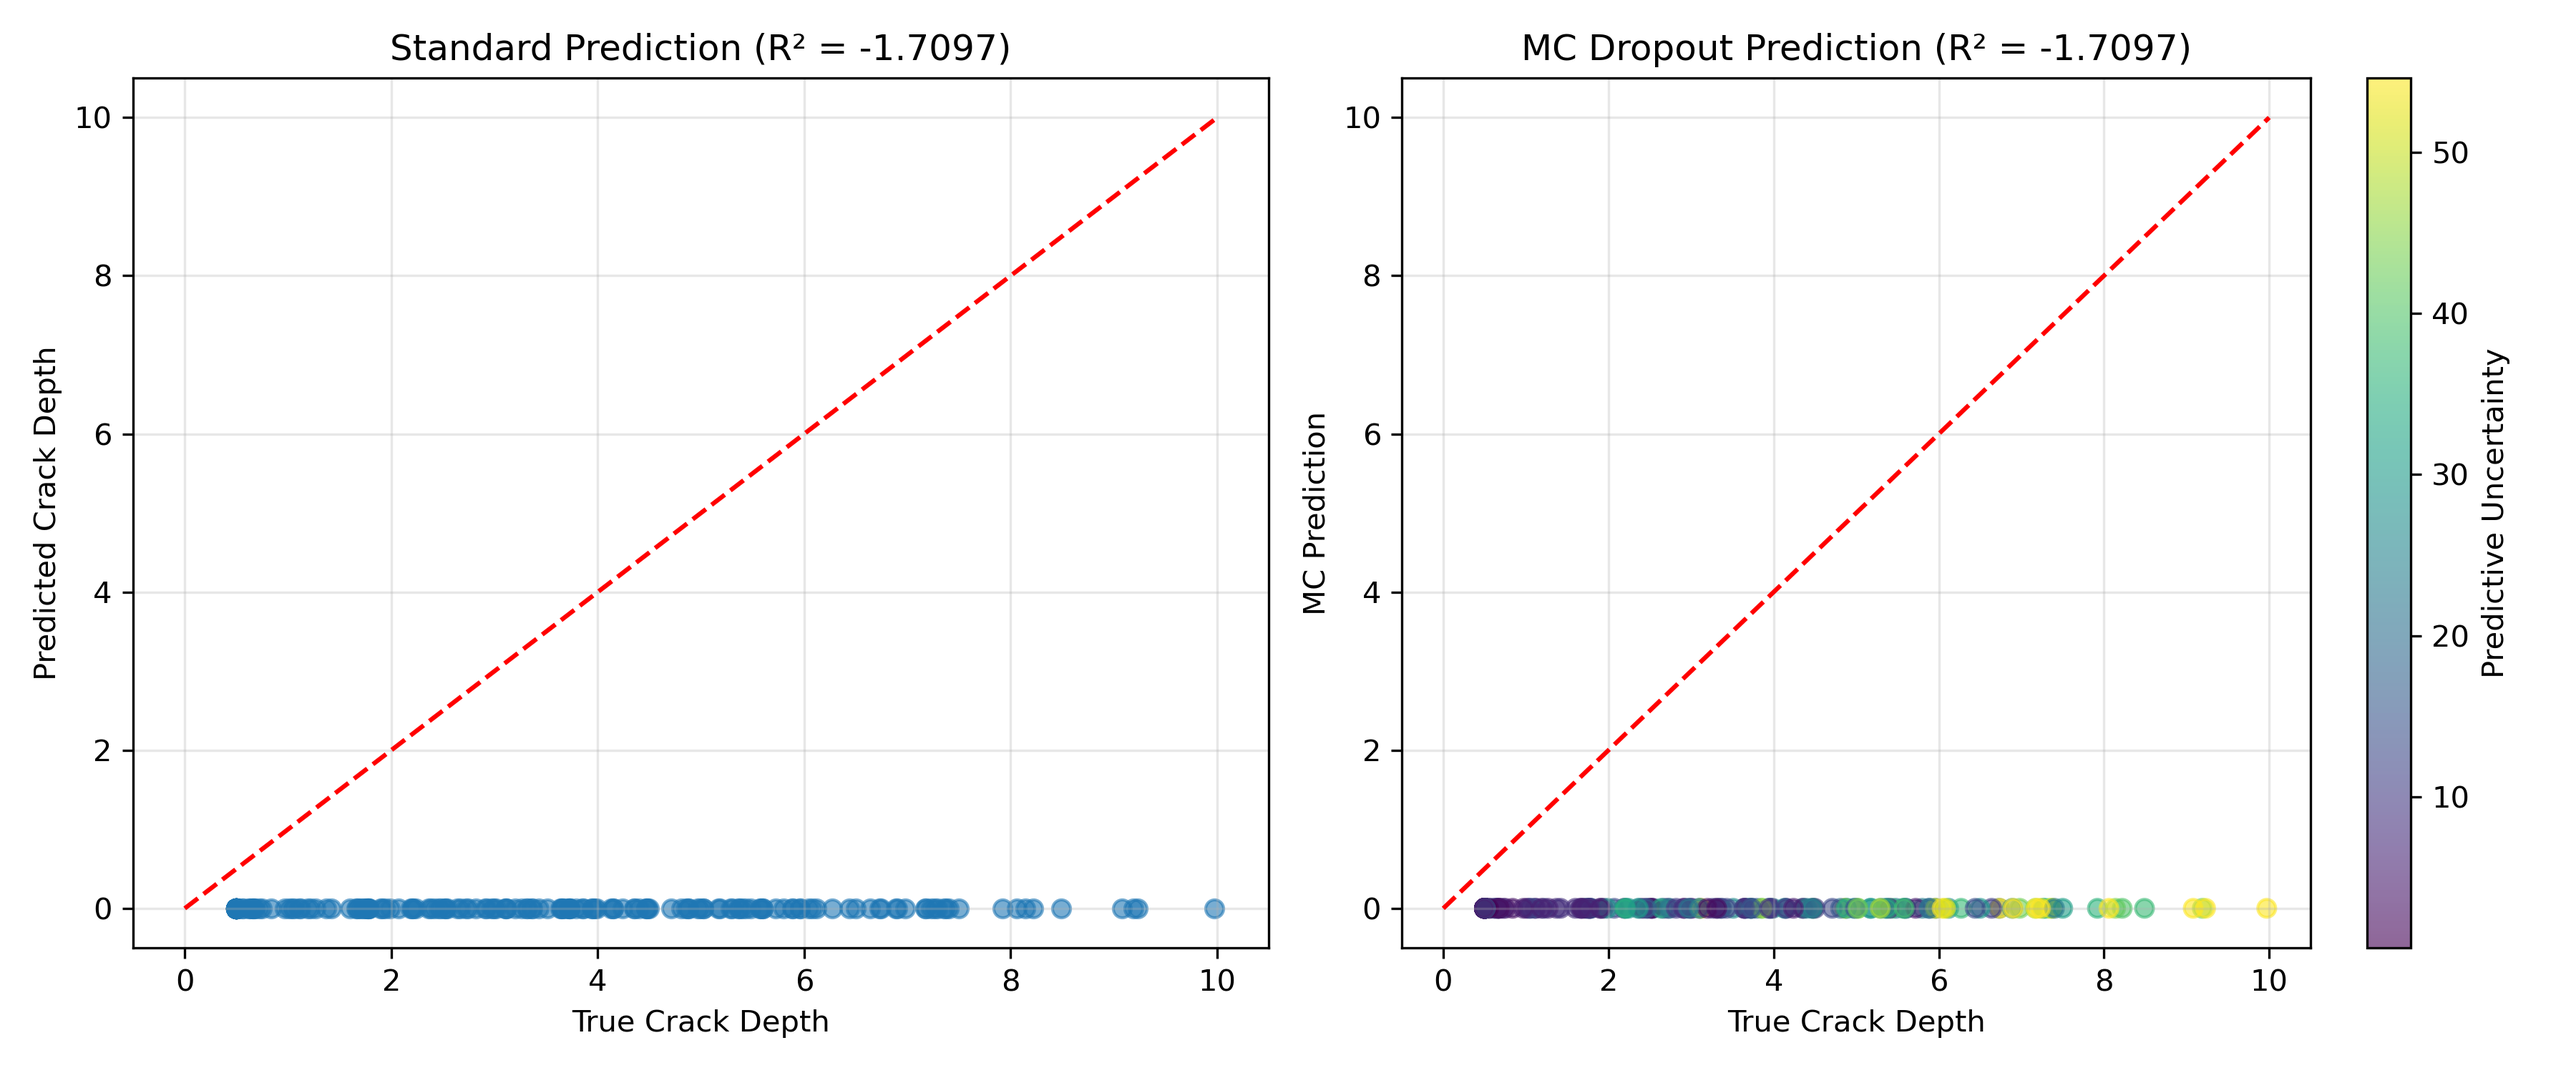
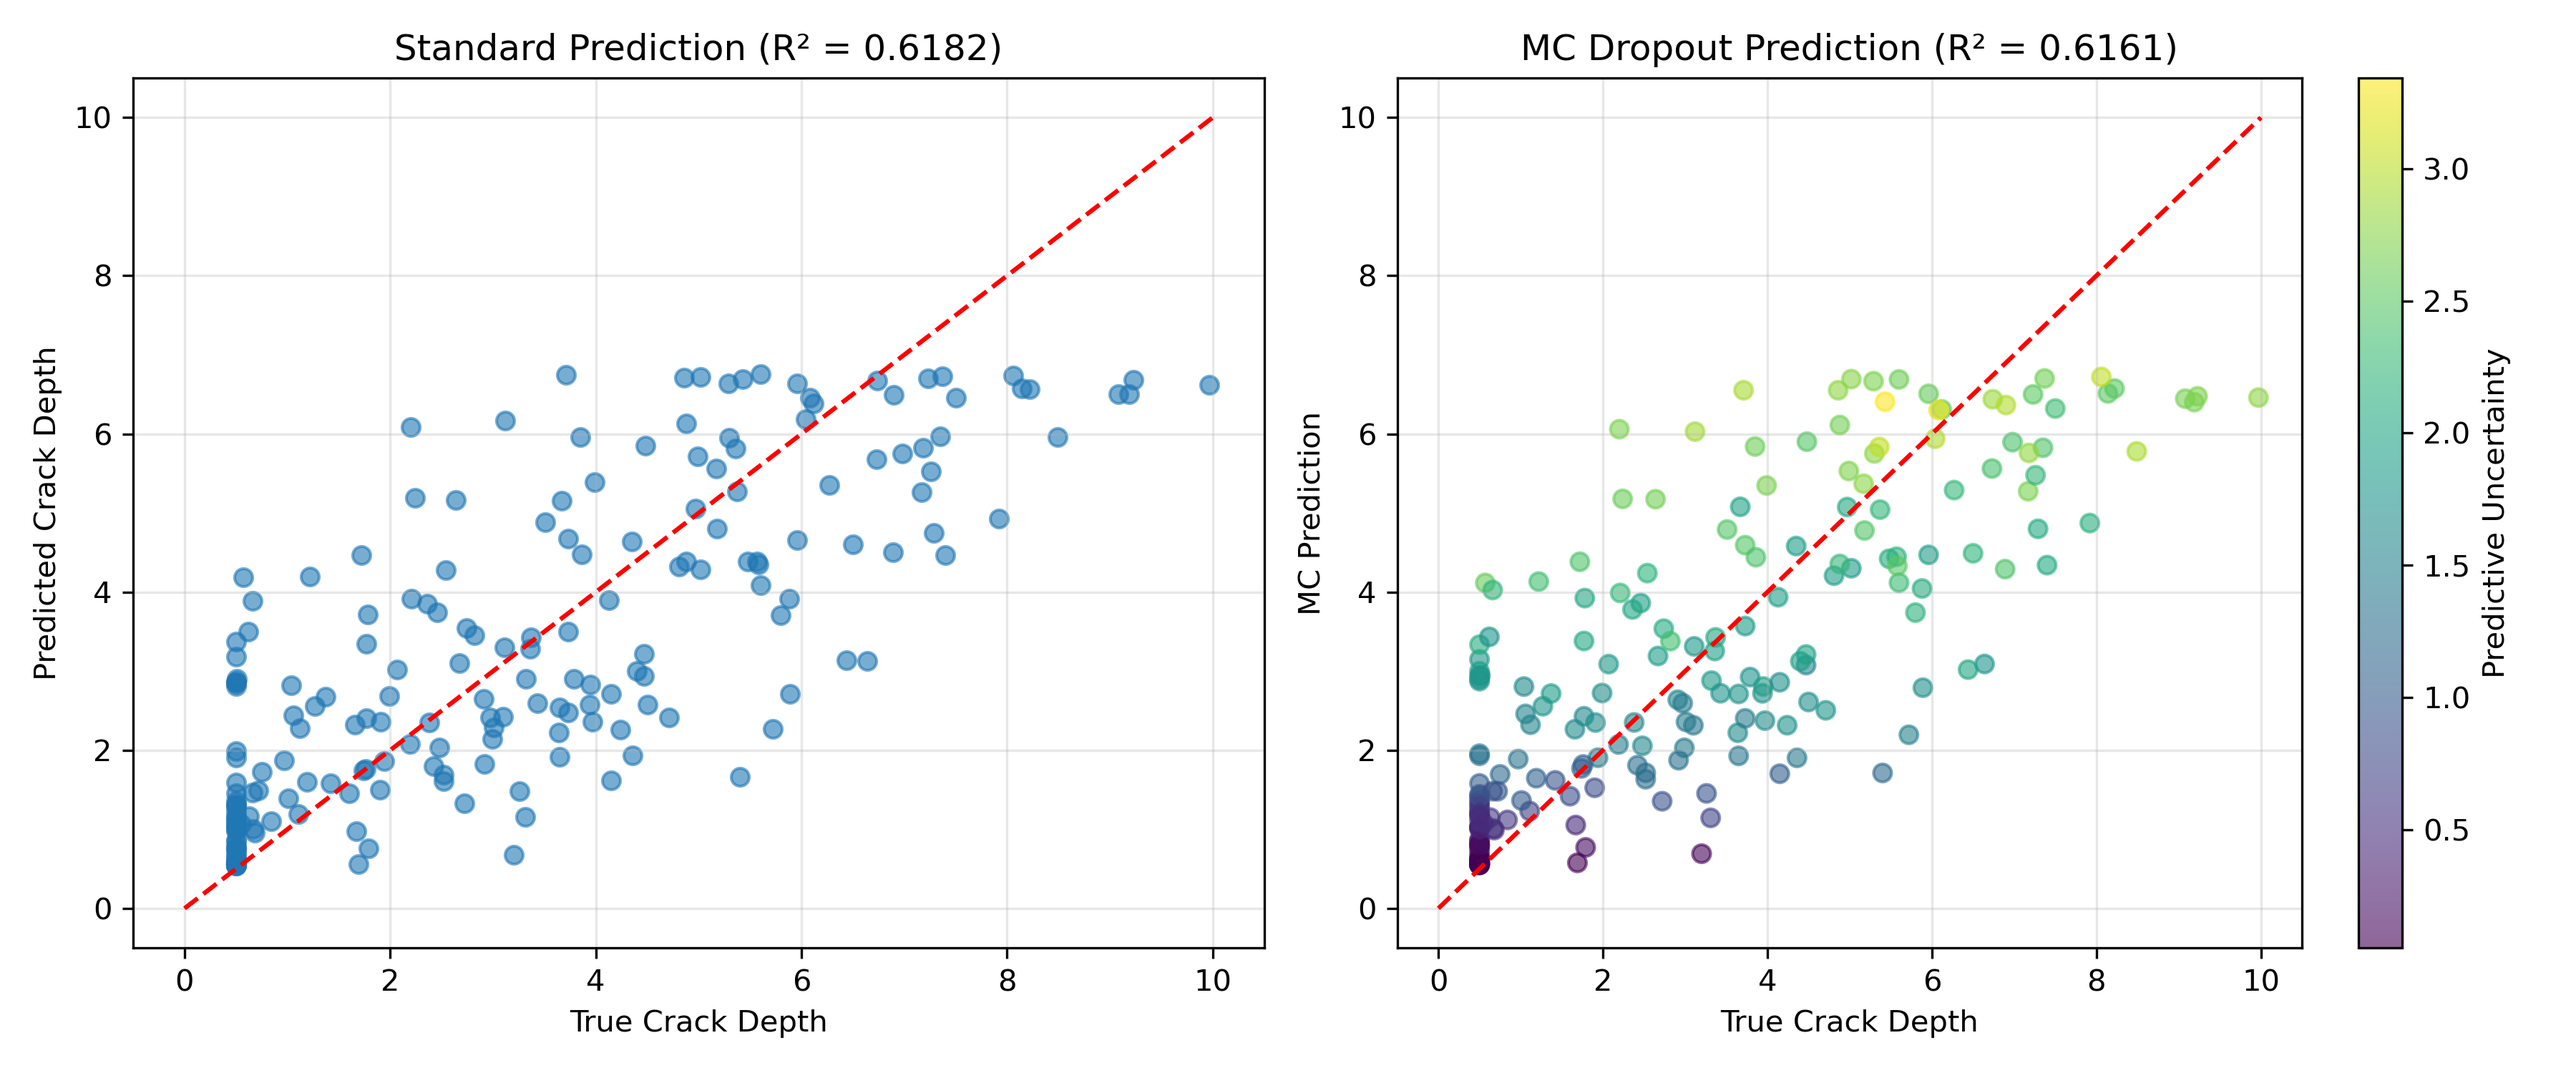
物理一致性高，但R20.66

diff --git a/improved_pgnn_hyperopt.py b/improved_pgnn_hyperopt.py
@@ -278,10 +278,6 @@ def train_with_trial(trial, train_data, val_data, num_materials, device="cuda", 
                     scaler.step(optimizer)
                     scaler.update()
 
-                    # SWA update
-                    if use_swa and epoch >= swa_start:
-                        swa_model.update_parameters(model)
-                        swa_scheduler.step(val_r2)
 
                     epoch_loss += loss.item() * batch_target.size(0)
                 except RuntimeError as e:
@@ -331,6 +327,11 @@ def train_with_trial(trial, train_data, val_data, num_materials, device="cuda", 
                 
                 # 调整学习率
                 scheduler.step()
+
+                # SWA 更新在获得验证指标后执行
+                if use_swa and epoch >= swa_start:
+                    swa_model.update_parameters(model)
+                    swa_scheduler.step()
 
                 # 剪枝逻辑 - 确保训练至少min_epochs_before_pruning轮后才考虑剪枝
                 if trial.should_prune() and epoch >= min_epochs_before_pruning:
@@ -803,10 +804,6 @@ def retrain_with_best_params(
                     scaler.step(optimizer)
                     scaler.update()
 
-                    # SWA更新 (如果启用)
-                    if use_swa and epoch >= swa_start:
-                        swa_model.update_parameters(model)
-                        swa_scheduler.step(test_r2)
 
                     epoch_loss += loss.item() * batch_target.size(0)
                 except Exception as e:
@@ -852,7 +849,12 @@ def retrain_with_best_params(
                     break
 
                 # 基于验证集性能更新学习率
-                scheduler.step()
+                scheduler.step(test_r2)
+
+                # 在获取测试指标后再执行SWA更新
+                if use_swa and epoch >= swa_start:
+                    swa_model.update_parameters(model)
+                    swa_scheduler.step()
             except Exception as e:
                 print(f"Error in evaluation: {e}")
                 continue

diff --git a/improved_material_crack_pgnn.py b/improved_material_crack_pgnn.py
@@ -840,7 +840,7 @@ def train_material_model(
         loss.backward()
         torch.nn.utils.clip_grad_norm_(model.parameters(), GRAD_CLIP)
         optimizer.step()
-        scheduler.step()
+
         
         train_losses.append(loss.item())
         
@@ -853,5 +853,7 @@ def train_material_model(
                 val_losses.append(val_loss.item())
                 
                 print(f"Epoch {epoch}: Train Loss = {loss.item():.4f}, Val Loss = {val_loss.item():.4f}")
-    
+        # 调整学习率在验证之后进行
+        scheduler.step()
+        
     return model, train_losses, val_losses
